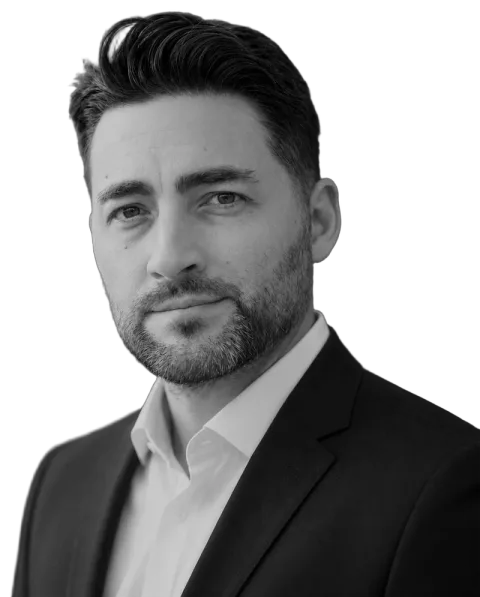
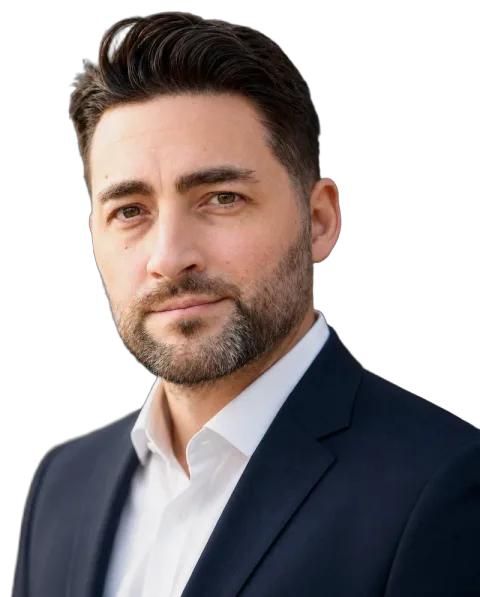
Jasna, kolorowa paleta marki zamiast czerni i bieli
Krem (tło), granat (tekst), złoto (akcent) — paleta marki. Zdjęcie w kolorze, tło hero
jako jasna mgiełka z rozmytego zdjęcia + złota poświata za postacią. Warstwa przy
przewijaniu kremowa, w prawo coraz bardziej przejrzysta. Telefon: zdjęcie u góry, tekst
pod nim. Postać obniżona pod nagłówek, napisy nagłówka z kremową poświatą,
„Przewiń” jako pigułka. Nowy obrazek OG i ikony w palecie.

diff --git a/app/globals.css b/app/globals.css
@@ -3,22 +3,26 @@
 /* ============================================================
    maciejvsufa.pl — wierne odwzorowanie szablonu Framer „Syntax CV”
    (syntaxcv.framer.website). Wartości z CSS szablonu:
-   czerń #000, biel #fff, szary #949494, mięta #00FFAE, font Switzer,
+   Kolory: jasna paleta marki — krem (tło), granat (tekst), złoto (akcent); font Switzer,
    treść 16px/1.2, stanowiska 24px/700, tytuły sekcji 32px/700 wersalikami,
-   linia sekcji 0.5px #949494, sekcja = 67% szerokości, tytuł przyklejony 80px od góry.
+   cienka linia sekcji, sekcja = 67% szerokości, tytuł przyklejony 80px od góry.
    Animacje: jak w konfiguracji „appear” szablonu (patrz komentarze niżej).
    ============================================================ */
 :root {
-  --bg: #000000;
-  --surface: #0b0b0b;
-  --surface2: #121212;
-  --border: #949494;
-  --text: #ffffff;
-  --text2: #ffffff;
-  --text3: #949494;
-  --accent: #00ffae;
-  --accent2: #7dffd2;
-  --ink: #000000;
+  --bg: #f5efe3; /* krem */
+  --paper: 245, 239, 227;
+  --surface: #efe7d7;
+  --surface2: #e8dcc4;
+  --navy: 15, 27, 45; /* granat #0F1B2D */
+  --border: rgba(15, 27, 45, 0.28);
+  --text: #0f1b2d;
+  --text2: #0f1b2d;
+  --text3: #5b6475; /* łupek — drugi plan, kontrast AA na kremie */
+  --accent: #8f6b22; /* złoto do tekstu (kontrast AA na kremie) */
+  --accent2: #6f5218;
+  --gold: #c9a24a; /* złoto dekoracyjne: linie, kropki, poświata */
+  --gold-rgb: 201, 162, 74;
+  --ink: #f5efe3;
   --px: 64px; /* margines boczny: desktop 64, tablet 40, telefon 16 */
   --w: calc(100% - 2 * var(--px));
   --ease-spring: cubic-bezier(0.22, 1, 0.36, 1); /* ≈ spring bounce 0 */
@@ -99,7 +103,26 @@ a {
   inset: 0;
   z-index: 0;
   overflow: hidden;
-  background: #111 url("/hero-bg.webp") center / cover no-repeat;
+  background: var(--bg);
+}
+/* rozmyte zdjęcie jako delikatna mgiełka + ciepła złota poświata za postacią */
+.hero-bg::before,
+.hero-bg::after {
+  content: "";
+  position: absolute;
+  inset: 0;
+}
+.hero-bg::before {
+  background: url("/hero-bg.webp") center / cover no-repeat;
+  opacity: 0.32;
+}
+.hero-bg::after {
+  background:
+    radial-gradient(40% 55% at 80% 42%, rgba(var(--gold-rgb), 0.28), transparent 70%),
+    radial-gradient(60% 60% at 10% 90%, rgba(var(--navy), 0.06), transparent 70%);
+}
+.hero-bg-zoom {
+  z-index: 1;
 }
 .hero-bg-zoom {
   position: absolute;
@@ -111,12 +134,13 @@ a {
    na środku pasa między czarnym panelem (px + 67% treści) a prawą krawędzią. */
 .hero-fig {
   --edge: calc(var(--px) + (100vw - 2 * var(--px)) * 0.67);
-  --fig-w: calc(100vh * 800 / 995);
+  --fig-h: calc(100vh - 64px); /* głowa zaczyna się pod nagłówkiem, napisy zostają na czystym tle */
+  --fig-w: calc(var(--fig-h) * 800 / 995);
   position: absolute;
   bottom: 0;
   left: calc((var(--edge) + 100vw) / 2 - var(--fig-w) * 0.44);
   width: var(--fig-w);
-  height: 100vh;
+  height: var(--fig-h);
   max-width: none;
   object-fit: contain;
   object-position: bottom;
@@ -147,8 +171,8 @@ a {
   content: "";
   position: absolute;
   inset: 0 0 auto 0;
-  height: 120px;
-  background: linear-gradient(rgba(0, 0, 0, 0.85) 35%, transparent);
+  height: 76px; /* kończy się nad przyklejonym tytułem sekcji (top: 80px) */
+  background: linear-gradient(rgba(var(--paper), 0.95) 55%, transparent);
   opacity: var(--hdr-shade, 0);
   transition: opacity 0.4s ease;
 }
@@ -176,15 +200,15 @@ a {
   height: 6px;
   border-radius: 50%;
   background: var(--accent);
-  box-shadow: 0 0 0 0 rgba(0, 255, 174, 0.6);
+  box-shadow: 0 0 0 0 rgba(var(--gold-rgb), 0.7);
   animation: pulse 2.4s ease-out infinite;
 }
 @keyframes pulse {
   70% {
-    box-shadow: 0 0 0 7px rgba(0, 255, 174, 0);
+    box-shadow: 0 0 0 7px rgba(var(--gold-rgb), 0);
   }
   100% {
-    box-shadow: 0 0 0 0 rgba(0, 255, 174, 0);
+    box-shadow: 0 0 0 0 rgba(var(--gold-rgb), 0);
   }
 }
 .hdr-links {
@@ -209,10 +233,31 @@ a {
 .site-header a:hover {
   color: var(--accent);
 }
+/* napisy nagłówka po prawej leżą na zdjęciu (włosy) — kremowa poświata dla czytelności */
+.hdr-links,
+.hdr-right,
+.hdr-bottom {
+  text-shadow:
+    0 0 6px rgba(var(--paper), 0.95),
+    0 0 14px rgba(var(--paper), 0.8);
+}
 .hdr-bottom {
   position: absolute;
-  bottom: 36px;
+  bottom: 30px;
   left: calc(var(--px) + (100% - 2 * var(--px)) * 0.75);
+}
+/* „Przewiń / Do góry” leży na zdjęciu (garnitur) — kremowa pigułka */
+.hdr-scroll {
+  display: inline-block;
+  padding: 6px 14px;
+  border-radius: 999px;
+  background: rgba(var(--paper), 0.88);
+  box-shadow: 0 6px 20px -10px rgba(var(--navy), 0.5);
+  text-shadow: none;
+  transition: background 0.2s;
+}
+.hdr-scroll:hover {
+  background: var(--bg);
 }
 .hdr-menu {
   display: none;
@@ -228,7 +273,8 @@ a {
   padding: 16px;
   border: 1px solid var(--border);
   border-radius: 12px;
-  background: #000;
+  background: var(--bg);
+  box-shadow: 0 18px 40px -18px rgba(var(--navy), 0.35);
   pointer-events: auto;
 }
 .hdr-menu button {
@@ -267,7 +313,7 @@ a {
   max-width: min(560px, 44%);
   margin: 0 0 40px;
   padding-left: 20px;
-  border-left: 1px solid rgba(0, 255, 174, 0.7);
+  border-left: 2px solid var(--gold);
 }
 .hero-quote blockquote {
   font-size: clamp(15px, 1.2vw, 18px);
@@ -275,8 +321,7 @@ a {
   font-weight: 300;
   line-height: 1.55;
   letter-spacing: 0.005em;
-  color: rgba(255, 255, 255, 0.74);
-  text-shadow: 0 1px 12px rgba(0, 0, 0, 0.55);
+  color: rgba(var(--navy), 0.78);
 }
 .hero-quote figcaption {
   margin-top: 12px;
@@ -328,10 +373,10 @@ a {
   padding-top: 200px;
   background: linear-gradient(
     to right,
-    rgba(0, 0, 0, 0.94) 0%,
-    rgba(0, 0, 0, 0.9) 55%,
-    rgba(0, 0, 0, 0.72) 70%,
-    rgba(0, 0, 0, 0.42) 100%
+    rgba(var(--paper), 0.97) 0%,
+    rgba(var(--paper), 0.93) 55%,
+    rgba(var(--paper), 0.74) 70%,
+    rgba(var(--paper), 0.42) 100%
   );
   -webkit-mask-image: linear-gradient(to bottom, transparent 0, #000 220px);
   mask-image: linear-gradient(to bottom, transparent 0, #000 220px);
@@ -385,7 +430,7 @@ a {
 }
 .txt {
   line-height: 1.45;
-  color: rgba(255, 255, 255, 0.86);
+  color: rgba(var(--navy), 0.86);
 }
 .lnk,
 .cval,
@@ -413,14 +458,11 @@ a {
   height: auto;
   border-radius: 8px;
   border: 0.5px solid var(--border);
-  filter: grayscale(1) brightness(0.78) contrast(1.05);
-  transition:
-    transform 0.5s var(--ease-spring),
-    filter 0.4s ease;
+  box-shadow: 0 14px 34px -18px rgba(var(--navy), 0.45);
+  transition: transform 0.5s var(--ease-spring);
 }
 .cert:hover img {
   transform: scale(1.02);
-  filter: none;
 }
 .cert .lnk {
   display: inline-block;
@@ -433,7 +475,8 @@ a {
 }
 .tag {
   padding: 4px 8px;
-  border: 1px solid rgba(255, 255, 255, 0.7);
+  border: 1px solid rgba(var(--navy), 0.3);
+  background: rgba(255, 255, 255, 0.35);
   border-radius: 6px;
   font-size: 14px;
 }
@@ -448,8 +491,9 @@ a {
   justify-content: space-between;
   min-height: 112px;
   padding: 16px;
-  border: 1px solid rgba(255, 255, 255, 0.6);
+  border: 1px solid rgba(var(--navy), 0.22);
   border-radius: 12px;
+  background: rgba(255, 255, 255, 0.45);
 }
 .contact {
   display: flex;
@@ -473,7 +517,7 @@ a {
   display: inline-flex;
   align-items: center;
   padding: 6px 12px;
-  border: 1px solid rgba(255, 255, 255, 0.6);
+  border: 1px solid rgba(var(--navy), 0.3);
   border-radius: 6px;
   font-size: 14px;
   background: none;
@@ -600,7 +644,7 @@ a {
   }
   .site-header::before {
     height: 104px;
-    background: linear-gradient(#000 70%, transparent);
+    background: linear-gradient(var(--bg) 70%, transparent);
   }
   .hdr-logo {
     flex-direction: column;
@@ -633,11 +677,15 @@ a {
     width: 100%;
     margin-top: 32px;
   }
-  /* telefon: panel ma pełną szerokość, więc postać stoi na środku pierwszego ekranu */
+  /* telefon: zdjęcie u góry pierwszego ekranu, tekst pod nim na jasnym tle */
   .hero-fig {
-    --fig-w: calc(78svh * 800 / 995);
+    --fig-w: calc(46svh * 800 / 995);
+    top: 64px;
+    bottom: auto;
     left: calc(50vw - var(--fig-w) * 0.44);
-    height: 78svh;
+    height: 46svh;
+    -webkit-mask-image: linear-gradient(to bottom, #000 72%, transparent);
+    mask-image: linear-gradient(to bottom, #000 72%, transparent);
   }
   .hero-name {
     font-size: calc((100vw - 32px) / 4.3);
@@ -645,20 +693,27 @@ a {
   .hero {
     padding-bottom: 32px;
   }
-  /* telefon: przyciemnienie pod tekstem hero; dół = ten sam odcień co góra warstwy, bez szwu */
+  /* telefon: tekst hero zaczyna się pod zdjęciem; delikatne rozjaśnienie od dołu zdjęcia */
+  .hero {
+    justify-content: flex-start;
+    padding-top: calc(64px + 46svh - 24px);
+  }
   .hero::before {
     content: "";
     position: absolute;
     inset: 0;
     pointer-events: none;
-    background: linear-gradient(to top, rgba(0, 0, 0, 0.8) 0%, rgba(0, 0, 0, 0.55) 35%, transparent 65%);
+    background: linear-gradient(to top, rgba(var(--paper), 0.96) 0%, rgba(var(--paper), 0.9) calc(100% - 46svh - 40px), transparent calc(100% - 46svh + 40px));
+  }
+  .hero-main {
+    z-index: 1;
   }
   .hero-role {
     margin-top: 24px;
   }
   .panel {
     padding-top: 140px;
-    background: linear-gradient(to right, rgba(0, 0, 0, 0.84), rgba(0, 0, 0, 0.76));
+    background: linear-gradient(to right, rgba(var(--paper), 0.95), rgba(var(--paper), 0.86));
     -webkit-mask-image: none;
     mask-image: none;
   }

diff --git a/components/fx/fit-text.tsx b/components/fx/fit-text.tsx
@@ -36,7 +36,8 @@ export function FitText({
       let size = (box.clientWidth / widest) * 100 * 0.995;
       el.style.fontSize = `${size}px`;
       // hero ma się mieścić na jednym ekranie: nadmiar wysokości zabieramy z napisu
-      const section = fitHeightOf ? el.closest<HTMLElement>(fitHeightOf) : null;
+      // (tylko od 810 px — na telefonie hero celowo jest wyższe niż ekran)
+      const section = fitHeightOf && window.innerWidth >= 810 ? el.closest<HTMLElement>(fitHeightOf) : null;
       if (section) {
         const over = section.scrollHeight - window.innerHeight;
         if (over > 0) {

diff --git a/app/manifest.ts b/app/manifest.ts
@@ -9,8 +9,8 @@ export default function manifest(): MetadataRoute.Manifest {
     description: "Tworzę content na social media z AI.",
     start_url: "/",
     display: "browser",
-    background_color: "#000000",
-    theme_color: "#000000",
+    background_color: "#f5efe3",
+    theme_color: "#f5efe3",
     icons: [
       { src: "/icon-192.png", sizes: "192x192", type: "image/png" },
       { src: "/icon-512.png", sizes: "512x512", type: "image/png" },

diff --git a/app/layout.tsx b/app/layout.tsx
@@ -42,7 +42,7 @@ export const metadata: Metadata = {
 };
 
 export const viewport: Viewport = {
-  themeColor: "#000000",
+  themeColor: "#f5efe3",
   width: "device-width",
   initialScale: 1,
 };
